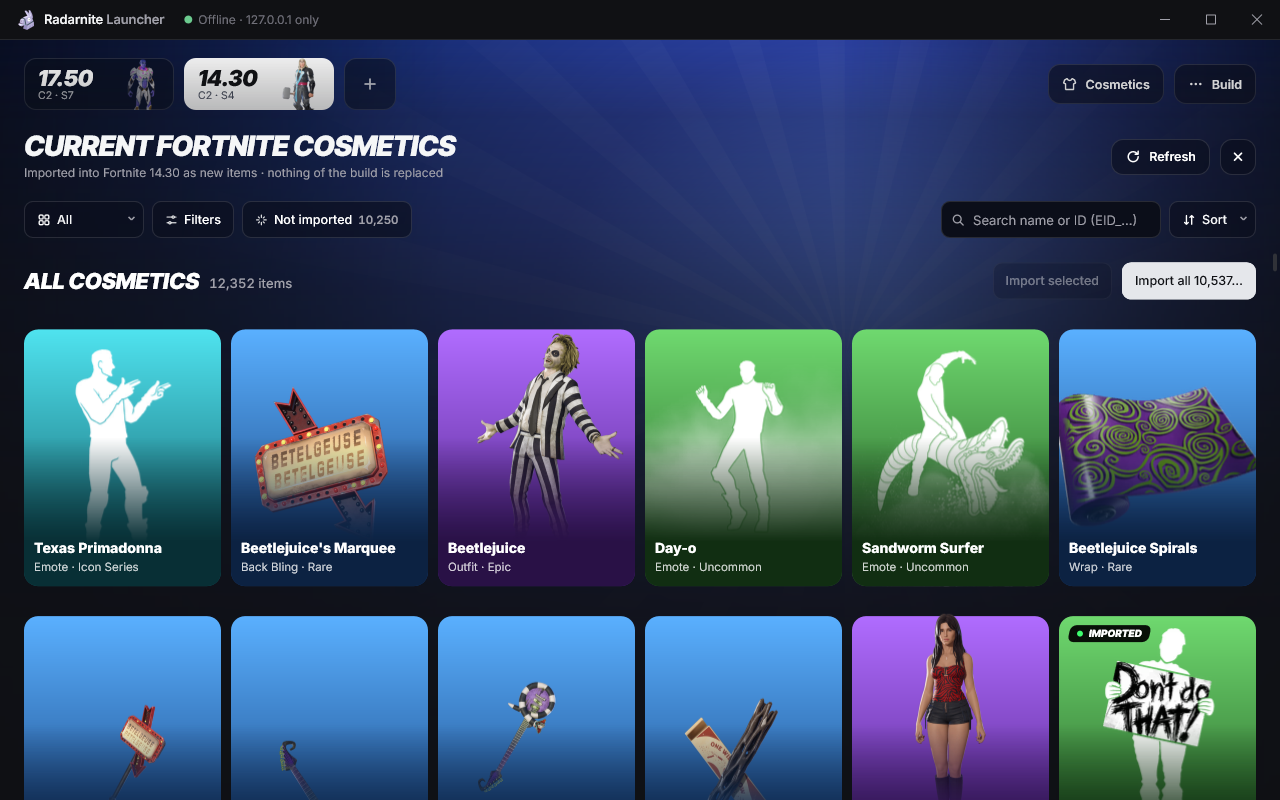
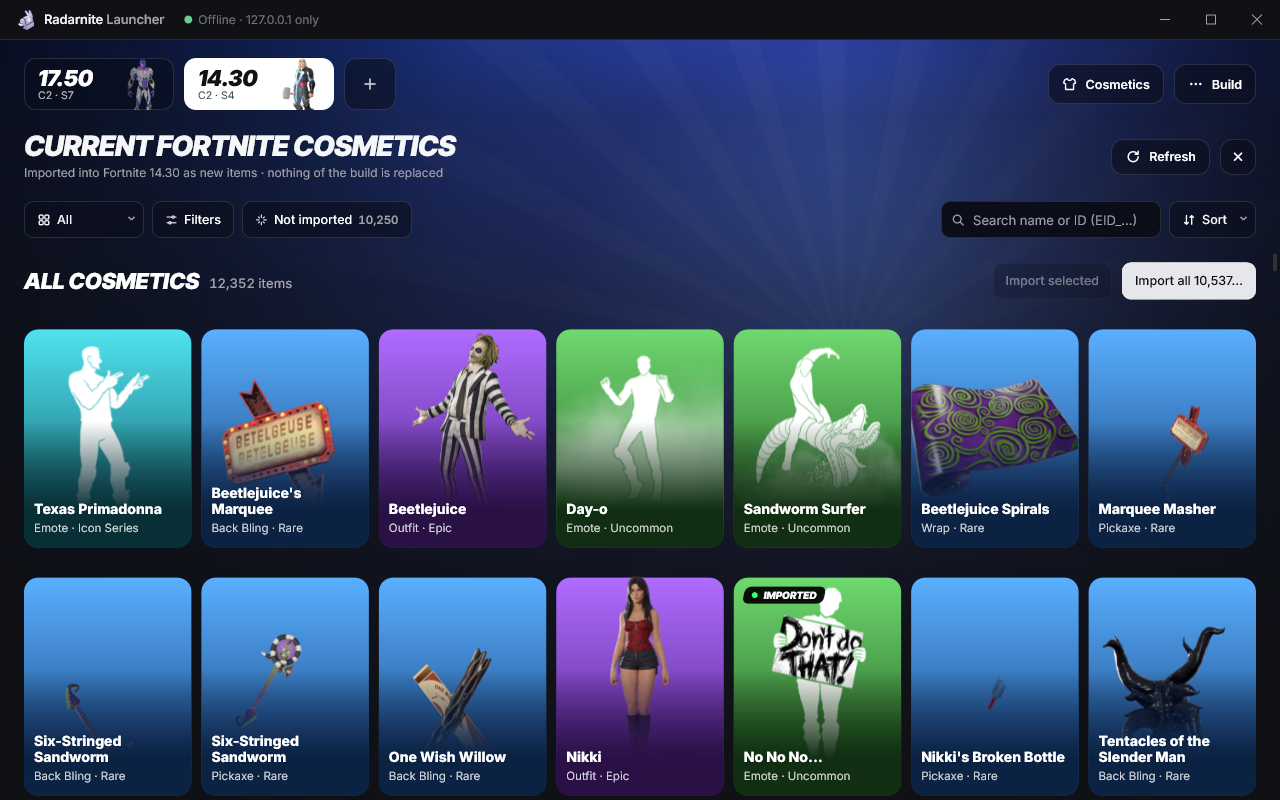
Native UI: smaller cosmetics cards, one column count for drawing and keys
Cards are at least 150 DIPs wide instead of growing to 240 (12 columns at
2560x1380 125 %). Drawing, keyboard paging and the selftest share the same
column count. Selftest: 0 failures.

diff --git a/native/ui/port_ui.cpp b/native/ui/port_ui.cpp
@@ -73,6 +73,8 @@ const RC kRC[] = {
 };
 const uint32_t GREEN_ = 0x3DFF6E;   // the lobby's green (.badge.ok)
 const RC& rcOf(const std::string& r) { for (auto& x : kRC) if (r == x.key) return x; return kRC[4]; }
+// columns of the cosmetics grid for a width: cards at least 150 DIPs wide, 10 apart (drawing, keys and the selftest agree)
+int portCols(float gw) { return std::max(1, (int)floorf((gw + 10) / (150 + 10))); }
 int rarIndex(const std::string& r) { for (int i = 0; i < NR; i++) if (r == kRAR[i].key) return i; return -1; }
 
 uint32_t scaleRgb(uint32_t c, float k) {
@@ -511,10 +513,8 @@ void App::drawPort(float x0, float y0, float W, float H) {
         by += secH + 30;
         if (pLoading_) { float lh = drawPortLoad(x, by, gw, true); pLoadR_ = rc(x, by + oy_, gw, lh); by += lh + 26; }
         else pLoadR_ = {};
-        // the grid: gap 30 px 10 px, cards 198:258 (radarnite.com: 6 of 198 at 1280). Cards grow with the window
-        // (190 DIPs at 1280 to 240 from ~2100) instead of making a dozen small columns; narrow windows keep 168.
-        float minW = gw < 2 * 190 + 10 ? 168.f : std::max(190.f, std::min(240.f, 190 + (gw - 1232) * .06f));
-        int cols = std::max(1, (int)floorf((gw + 10) / (minW + 10)));
+        // the grid: gap 30 px 10 px, cards 198:258 (as radarnite.com's), at least 150 DIPs wide
+        int cols = portCols(gw);
         float cardW = (gw - (cols - 1) * 10) / cols, cardH = cardW * 258 / 198, pitch = cardH + 30;
         pGrid_ = rc(x, by + oy_, gw, 0);
         pSlot_.clear();
@@ -1433,7 +1433,7 @@ void App::portCursor(int idx, bool keyboard) {
     pCursor_ = std::max(0, std::min((int)pList_.size() - 1, idx));
     // keep it in view: the grid's geometry of the last frame
     float gw = pGrid_.right - pGrid_.left;
-    int cols = std::max(1, (int)floorf((gw + 10) / (168 + 10)));
+    int cols = portCols(gw);
     float cardW = (gw - (cols - 1) * 10) / cols, pitch = cardW * 258 / 198 + 30;
     float top = pGrid_.top - (pBody_.top - pScroll_) + (pCursor_ / cols) * pitch;   // content coordinates
     if (pCursor_ < cols) pScroll_ = 0;   // the first row: the top of the panel with it
@@ -1544,7 +1544,7 @@ bool App::portKey(UINT vk, bool ctrl, bool shift) {
     }
     if (focus_ == ID_P_GRID && !pDlg_ && pPv_ < 0 && !pPop_ && !pList_.empty()) {
         float gw = pGrid_.right - pGrid_.left;
-        int cols = std::max(1, (int)floorf((gw + 10) / (168 + 10)));
+        int cols = portCols(gw);
         float cardH = (gw - (cols - 1) * 10) / cols * 258 / 198;
         int page = std::max(1, (int)floorf(pView_ / (cardH + 30))) * cols;
         int c = pCursor_;
@@ -1644,7 +1644,7 @@ std::vector<std::pair<std::wstring, bool>> App::portCheck(float W, float H) {
     check(L"Escape closes the preview", pPv_ < 0 && pOpen_);
     setFocus(ID_P_GRID, true); pCursor_ = 0; key(VK_RIGHT, false, false); key(VK_DOWN, false, false); frame();
     float gw = pGrid_.right - pGrid_.left;
-    int cols = std::max(1, (int)floorf((gw + 10) / (168 + 10)));
+    int cols = portCols(gw);
     check(L"arrows move the grid's cursor (right, down a row)", pCursor_ == 1 + cols);
     key(VK_END, false, false); frame();
     check(L"End scrolls the last card into view", pCursor_ == (int)pList_.size() - 1 && pScroll_ > 0);
